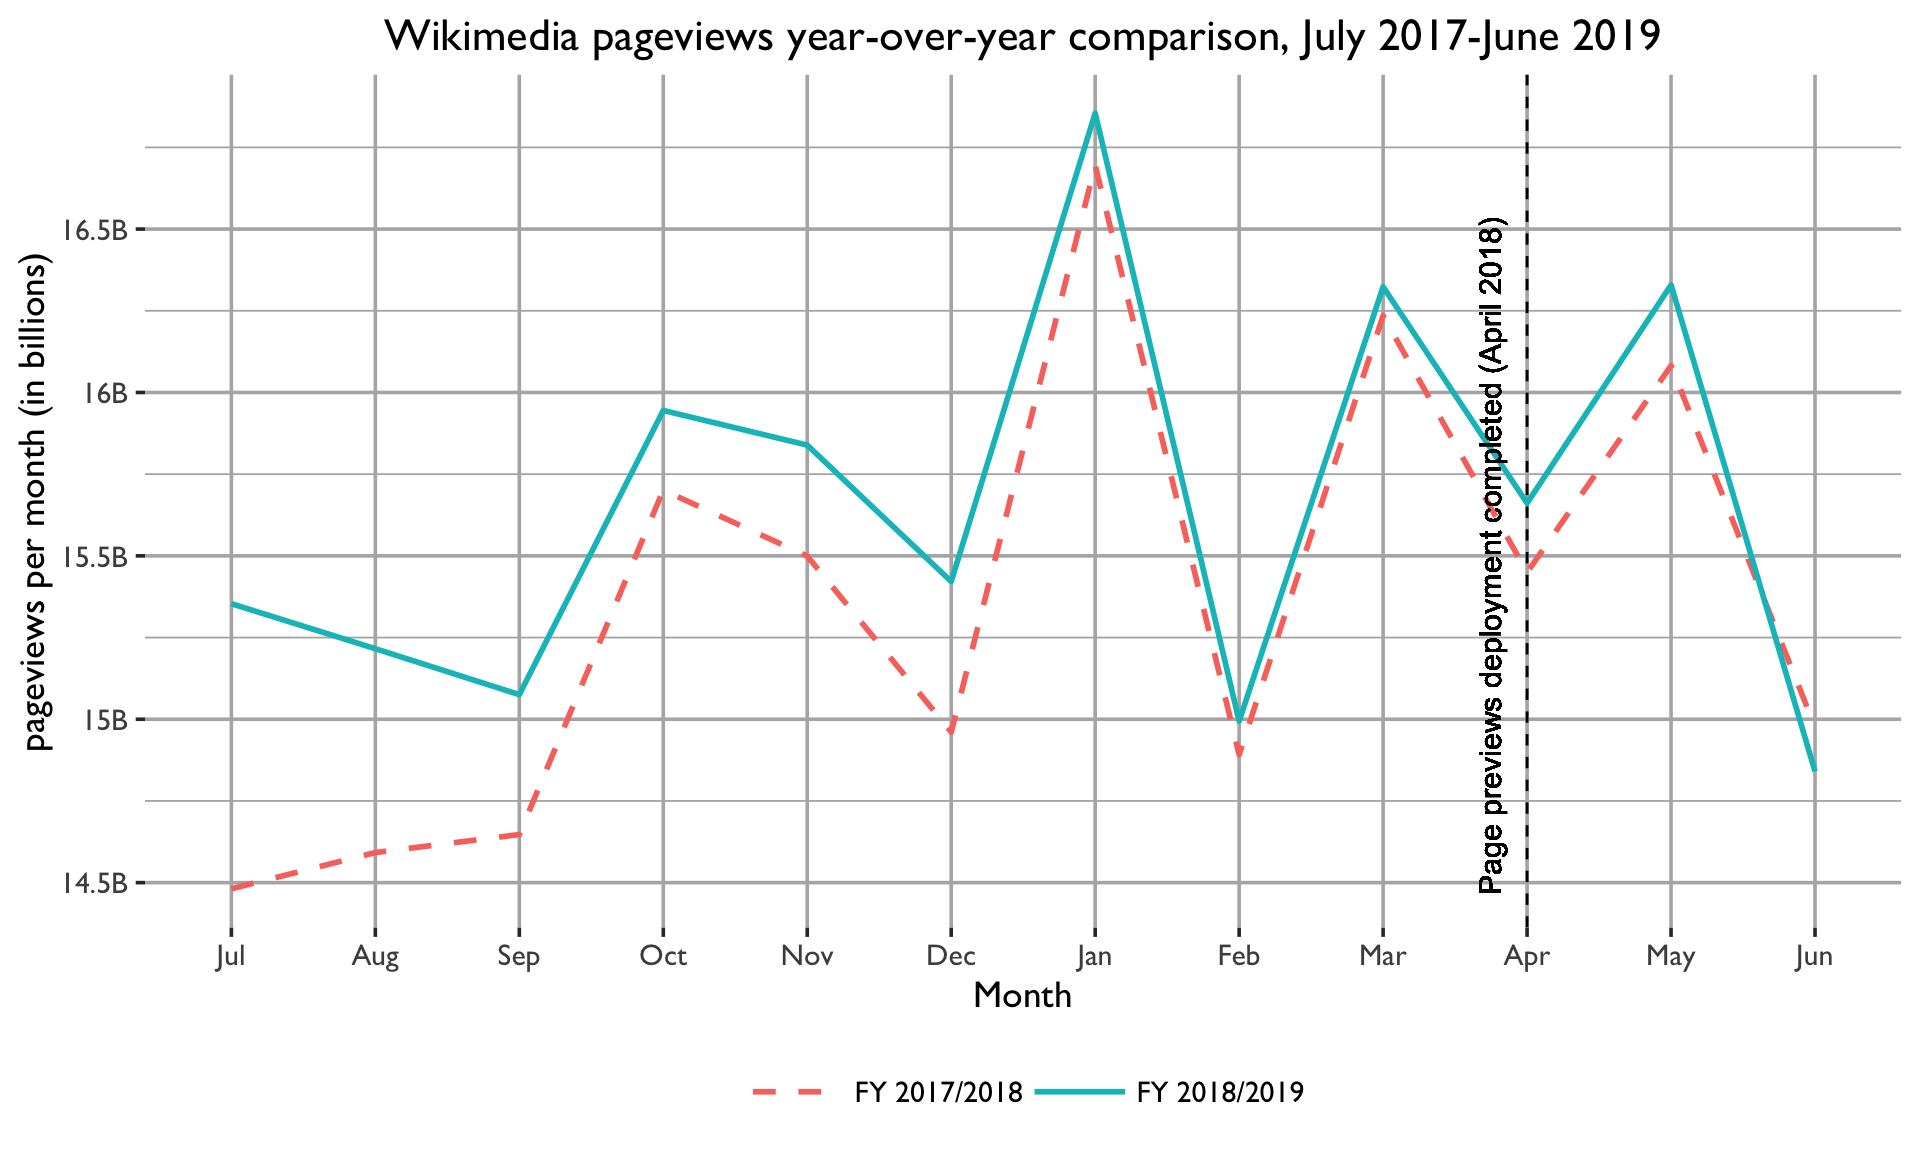
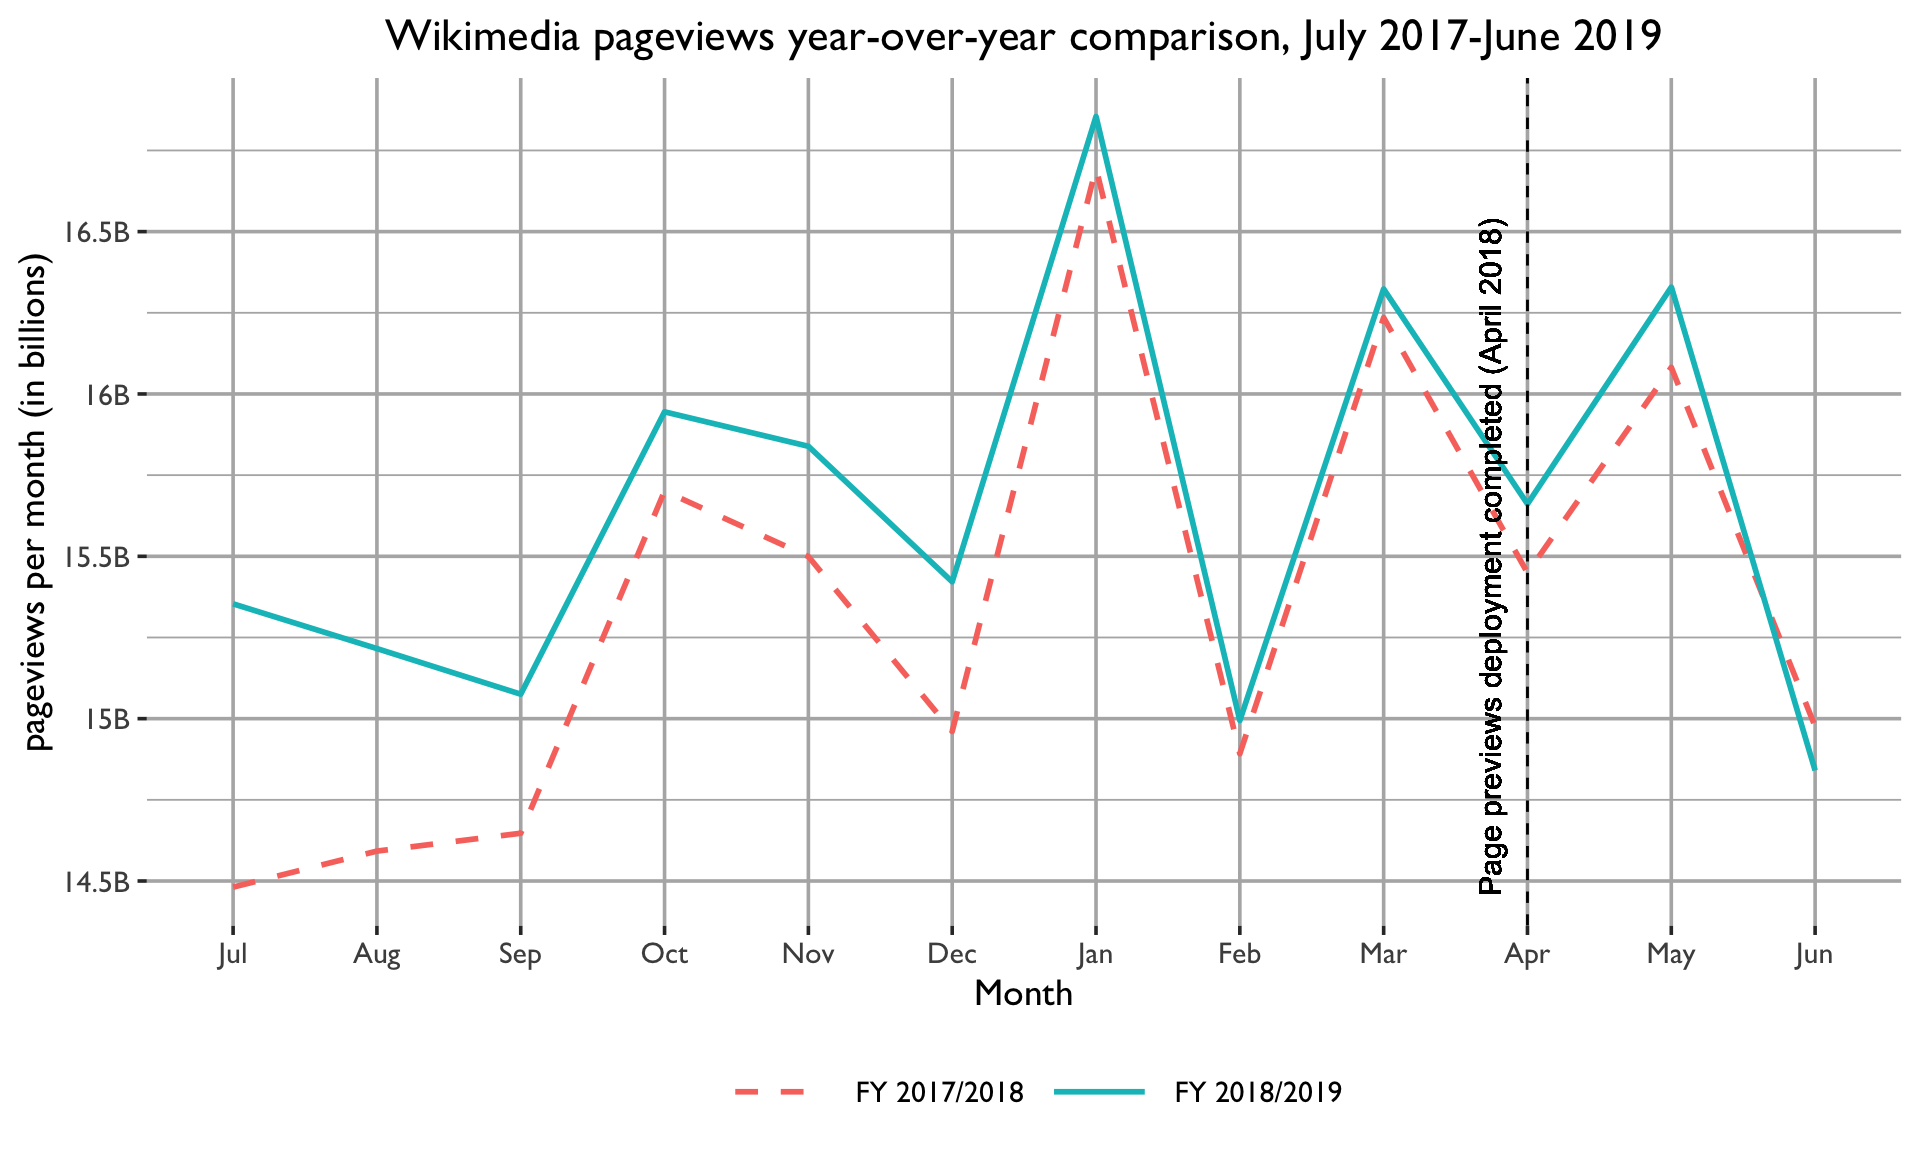
revised figuresand queries

diff --git a/01_interactions_metrics.md b/01_interactions_metrics.md
@@ -3,10 +3,16 @@ Monthly Readers Interactions
 
 TODOs
 
--   Move process to SWAP noteboook.
--   Create intermediate hive table to help automate and streamline the process.
--   Note monthly values are based on calendar month. They are no longer normalized due to 30 days.
--   Note: Various IE adjustments and corrections made for previous years. (IEPKIRAF: since May 20, 2018, IE7PKIRAF: January 1-May 19, 2018, IE7PKIRAF & iOS mainpage: ...-Dec 31, 2017)
+  - Move process to SWAP noteboook.
+  - Create intermediate hive table to help automate and streamline the
+    process.
+  - Note monthly values are based on calendar month. They are no longer
+    normalized due to 30 days.
+  - Note: Various IE adjustments and corrections made for previous
+    years. (IEPKIRAF: since May 20, 2018, IE7PKIRAF: January 1-May 19,
+    2018, IE7PKIRAF & iOS mainpage: …-Dec 31, 2017)
+
+<!-- end list -->
 
 ``` r
 library(tidyverse)
@@ -16,13 +22,21 @@ library(scales)
 library(reshape2)
 ```
 
-Monthly Pageviews
------------------
+## Monthly Pageviews
+
+Collect the total count of monthly pageviews with various corrections
+applied. List of corrections and timespans that they are applied to:
+
+  - IEPKIRAF: since May 20, 2018
+  - IE7PKIRAF: January 1-May 19, 2018
+  - IE7PKIRAF & iOS mainpage: …-Dec 31,
+2017
+
+<!-- end list -->
 
 ``` r
-# Get overall pageviews in the month (all wikis, global) with IE correction
-# applied for post May 20, 2018 dates. Other corrections applied for earlier
-# dates.
+#Get overall pageviews in the month (all wikis, global) with IE correction applied for post May 20, 2018 dates. Other corrections applied for earlier dates. 
+# Run in terminal using sparkR.
 query <- "
 SELECT year, month, day, CONCAT(year,'-',LPAD(month,2,'0'),'-',LPAD(day,2,'0')) AS date,
 SUM(IF(access_method = 'mobile app', view_count, null)) AS Apps,
@@ -37,13 +51,12 @@ AND user_agent_map['browser_family'] = 'IE') -- https://phabricator.wikimedia.or
 GROUP BY year, month, day ORDER BY year, month, day LIMIT 1000;
 "
 results <- collect(sql(query))
-# add results to pageviews.tsv file which includes corrected data for
-# pre-May 2018 dates. TODO: Add other queries with corrections for earlier
-# dates to automate this process
+#add results to pageviews.tsv file which includes corrected data for pre-May 2018 dates.
+#TODO: Add other queries with corrections for earlier dates to automate this process
 ```
 
 ``` r
-# Read in pageviews data with all corrected data (dating back to 2015-04-01)
+#Read in pageviews data with all corrected data (dating back to 2015-04-01)
 pageviews_all <- read.delim("data/pageviews.tsv", sep = "\t")
 pageviews_all$date <- as.Date(pageviews_all$date, format = "%Y-%m-%d")
 ```
@@ -51,10 +64,13 @@ pageviews_all$date <- as.Date(pageviews_all$date, format = "%Y-%m-%d")
 Find total pageviews per month with yoy changes
 
 ``` r
-pageviews_all_monthly <- pageviews_all %>% mutate(date = floor_date(date, "month")) %>% 
-    group_by(date) %>% summarise(monthly_views = sum(as.numeric(total))) %>% 
-    arrange(date) %>% mutate(yearOverYear = monthly_views/lag(monthly_views, 
-    12) - 1) %>% mutate(type = "pageviews")
+pageviews_all_monthly <- pageviews_all %>%
+  mutate(date = floor_date(date, "month")) %>%
+  group_by(date) %>%
+  summarise(monthly_views = sum(as.numeric(total))) %>%
+  arrange(date) %>%
+  mutate(yearOverYear= monthly_views/lag(monthly_views,12) -1) %>%
+  mutate(type = "pageviews")
 
 tail(pageviews_all_monthly)
 ```
@@ -72,22 +88,24 @@ tail(pageviews_all_monthly)
 Create time series chart of monthly pageviews
 
 ``` r
-p <- ggplot(pageviews_all_monthly, aes(x = date, y = monthly_views)) + geom_line(color = "blue", 
-    size = 1.5) + geom_vline(xintercept = as.numeric(as.Date("2018-04-01")), 
-    linetype = "dashed", color = "black") + geom_text(aes(x = as.Date("2018-04-01"), 
-    y = 1.6e+10, label = "Page previews deployment completed"), size = 3.5, 
-    vjust = -1.2, angle = 90, color = "black") + scale_y_continuous("pageviews per month (in billions)", 
-    labels = polloi::compress) + scale_x_date("Date", labels = date_format("%b %Y"), 
-    date_breaks = "2 months") + labs(title = "Monthly Wikimedia pageviews") + 
-    ggthemes::theme_tufte(base_size = 12, base_family = "Gill Sans") + theme(axis.text.x = element_text(angle = 45, 
-    hjust = 1), plot.title = element_text(hjust = 0.5), panel.grid = element_line("gray70"))
+p <- ggplot(pageviews_all_monthly, aes(x=date, y = monthly_views)) +  
+  geom_line(color = 'blue', size = 1.5) +
+  geom_vline(xintercept = as.numeric(as.Date("2018-04-01")),
+             linetype = "dashed", color = "black") +
+  geom_text(aes(x=as.Date('2018-04-01'), y=16E9, label="Page previews deployment completed"), size=3.5, vjust = -1.2, angle = 90, color = "black") +
+  scale_y_continuous("pageviews per month (in billions)", labels = polloi::compress) +
+  scale_x_date("Date", labels = date_format("%b %Y"), date_breaks = "2 months") +
+  labs(title = "Monthly Wikimedia pageviews") +
+  ggthemes::theme_tufte(base_size = 12, base_family = "Gill Sans") +
+  theme(axis.text.x=element_text(angle = 45, hjust = 1),
+        plot.title = element_text(hjust = 0.5),
+        panel.grid = element_line("gray70"))
 
-ggsave(filename = "Monthly pageviews monthly time series.png", plot = p, path = "figures", 
-    units = "in", dpi = 150, height = 6, width = 10, limitsize = FALSE)
+ggsave(filename="Monthly pageviews monthly time series.png", plot = p, path = "figures", units = "in", dpi = 150, height = 6, width = 10, limitsize = FALSE)  
 p
 ```
 
-![](figures/md_figs/unnamed-chunk-5-1.png)
+![](figures/md_figs/unnamed-chunk-5-1.png)<!-- -->
 
 ### Review pageviews by access method
 
@@ -164,46 +182,50 @@ ggsave(filename="Daily pageviews byaccess method.png", plot = p, path = "figures
 p
 ```
 
-![](figures/md_figs/unnamed-chunk-8-1.png)
+![](figures/md_figs/unnamed-chunk-8-1.png)<!-- -->
 
-Create YOY Chart comparing the current fiscal year with the previous fical year. TODO: Adjust for FY 2019/2020 starting next month (July 2019)
+Create YOY Chart comparing the current fiscal year with the previous
+fical year. TODO: Adjust for FY 2019/2020 starting next month (July
+2019)
 
 ``` r
-# Various adjustments to allow for fiscal year comparison.
-pageviews_all_monthly_fy <- pageviews_all_monthly %>% filter(date >= "2017-07-01") %>% 
-    mutate(fiscal_year = ifelse(date >= "2017-07-01" & date < "2018-07-01", 
-        "FY 2017/2018", "FY 2018/2019"), MonthN = as.factor(format(as.Date(date), 
-        "%m")), Month = months(as.Date(date), abbreviate = TRUE))
+#Various adjustments to allow for fiscal year comparison.
+pageviews_all_monthly_fy <- pageviews_all_monthly %>%
+  filter(date >= '2017-07-01') %>%
+  mutate(fiscal_year = ifelse(date >= '2017-07-01' & date < '2018-07-01', 'FY 2017/2018', 'FY 2018/2019'),
+         MonthN =as.factor(format(as.Date(date),"%m")),
+         Month = months(as.Date(date), abbreviate=TRUE))
 
-pageviews_all_monthly_fy$MonthN = factor(pageviews_all_monthly_fy$MonthN, levels = c("07", 
-    "08", "09", "10", "11", "12", "01", "02", "03", "04", "05", "06"))
+pageviews_all_monthly_fy$MonthN = factor(pageviews_all_monthly_fy$MonthN, levels=c("07","08", "09", "10", "11", "12", "01", "02", "03", "04", "05", "06"))
+  
 
+p <- ggplot(pageviews_all_monthly_fy, aes(x=MonthN, y = monthly_views, group = fiscal_year, color = fiscal_year, linetype = fiscal_year)) +  
+  geom_line(size = 1) +
+  geom_vline(xintercept = 10,
+             linetype = "dashed", color = "black") +
+  geom_text(aes(x=10, y=15.5E9, label="Page previews deployment completed (April 2018)"), size=4, vjust = -1.2, angle = 90, color = "black") +
+  scale_y_continuous("pageviews per month (in billions)", labels = polloi::compress) +
+  scale_x_discrete(breaks = pageviews_all_monthly_fy$MonthN, labels = pageviews_all_monthly_fy$Month )+
+  labs(title = "Wikimedia pageviews year-over-year comparison, July 2017-June 2019") +
+  ggthemes::theme_tufte(base_size = 14, base_family = "Gill Sans") +
+  theme(plot.title = element_text(hjust = 0.5),
+        legend.title = element_blank(),
+        legend.position = "bottom",
+        panel.grid = element_line("gray70"),
+        legend.key.width=unit(1.5,"cm")) +
+  xlab("Month") +
+  scale_linetype_manual(breaks=c('FY 2017/2018','FY 2018/2019'), values=c(2,1))
 
-p <- ggplot(pageviews_all_monthly_fy, aes(x = MonthN, y = monthly_views, group = fiscal_year, 
-    color = fiscal_year, linetype = fiscal_year)) + geom_line(size = 1) + geom_vline(xintercept = 10, 
-    linetype = "dashed", color = "black") + geom_text(aes(x = 10, y = 1.55e+10, 
-    label = "Page previews deployment completed (April 2018)"), size = 4, vjust = -1.2, 
-    angle = 90, color = "black") + scale_y_continuous("pageviews per month (in billions)", 
-    labels = polloi::compress) + scale_x_discrete(breaks = pageviews_all_monthly_fy$MonthN, 
-    labels = pageviews_all_monthly_fy$Month) + labs(title = "Wikimedia pageviews year-over-year comparison, July 2017-June 2019") + 
-    ggthemes::theme_tufte(base_size = 14, base_family = "Gill Sans") + theme(plot.title = element_text(hjust = 0.5), 
-    legend.title = element_blank(), legend.position = "bottom", panel.grid = element_line("gray70"), 
-    legend.key.width = unit(1.5, "cm")) + xlab("Month") + scale_linetype_manual(breaks = c("FY 2017/2018", 
-    "FY 2018/2019"), values = c(2, 1))
-
-ggsave(filename = "Pageviews_monthly_yoy.png", plot = p, path = "figures", units = "in", 
-    dpi = 192, height = 6, width = 10, limitsize = FALSE)
+ggsave(filename="Pageviews_monthly_yoy.png", plot = p, path = 'figures', units = "in", dpi = 192, height = 6, width = 10, limitsize = FALSE)  
 p
 ```
 
-![](figures/md_figs/unnamed-chunk-9-1.png)
+![](figures/md_figs/unnamed-chunk-9-1.png)<!-- -->
 
-Monthly Previews on Desktop Wikipedia
--------------------------------------
+## Monthly Previews on Desktop Wikipedia
 
 ``` r
-# Get daily page previews seen on desktop Wikipedia since deployment in
-# April 2018
+#Get daily page previews seen on desktop Wikipedia since deployment in April 2018
 query <- "
 SELECT year, month, day, CONCAT(year,'-',LPAD(month,2,'0'),'-',LPAD(day,2,'0')) AS date,
   SUM(view_count) AS previews_seen
@@ -213,17 +235,21 @@ SELECT year, month, day, CONCAT(year,'-',LPAD(month,2,'0'),'-',LPAD(day,2,'0')) 
   ORDER BY year, month, day LIMIT 10000;
 "
 results <- collect(sql(query))
-save(results, file = "Data/page_previews.tsv")
+save(results, file="Data/page_previews.tsv")
 ```
 
 ``` r
 previews <- read.delim("data/page_previews.tsv", sep = "\t")
 previews$date <- as.Date(previews$date, format = "%Y-%m-%d")
 
-previews_all_monthly <- previews %>% select(-c(1, 2, 3)) %>% mutate(date = floor_date(date, 
-    "month")) %>% group_by(date) %>% summarise(monthly_views = sum(as.numeric(previews_seen))) %>% 
-    arrange(date) %>% mutate(yearOverYear = monthly_views/lag(monthly_views, 
-    12) - 1) %>% mutate(type = "previews")
+previews_all_monthly <- previews %>%
+  select(-c(1,2,3)) %>%
+  mutate(date = floor_date(date, "month"))  %>%
+  group_by(date) %>%
+  summarise(monthly_views = sum(as.numeric(previews_seen))) %>%
+  arrange(date) %>%
+  mutate(yearOverYear= monthly_views/lag(monthly_views,12) -1) %>%
+  mutate(type = "previews")
 
 tail(previews_all_monthly)
 ```
@@ -241,58 +267,66 @@ tail(previews_all_monthly)
 Chart daily page previews times series
 
 ``` r
-previews_all_daily <- previews %>% filter(date >= "2018-04-17")  #Filter out dates that occured before page previews rollout was completed.
+previews_all_daily <- previews %>% 
+  filter(date >= '2018-04-17')  #Filter out dates that occured before page previews rollout was completed.
 
-p <- ggplot(previews_all_daily, aes(x = date, y = previews_seen)) + geom_line(color = "red", 
-    size = 1) + geom_vline(xintercept = as.numeric(as.Date("2018-04-17")), linetype = "dashed", 
-    color = "black") + geom_vline(xintercept = as.numeric(as.Date("2018-12-25")), 
-    linetype = "dashed", color = "black") + geom_text(aes(x = as.Date("2018-12-25"), 
-    y = 5e+07, label = "Christmas"), size = 4, vjust = -1.2, angle = 90, color = "black") + 
-    geom_text(aes(x = as.Date("2018-04-17"), y = 5.5e+07, label = "Page previews deployment completed"), 
-        size = 4, vjust = -1.2, angle = 90, color = "black") + scale_y_continuous("seen previews (shown for at least 1 sec)", 
-    labels = polloi::compress) + scale_x_date("Date", labels = date_format("%b %Y"), 
-    date_breaks = "1 month") + labs(title = "Daily seen previews on Wikipedia Desktop") + 
-    ggthemes::theme_tufte(base_size = 12, base_family = "Gill Sans") + theme(axis.text.x = element_text(angle = 45, 
-    hjust = 1), plot.title = element_text(hjust = 0.5), panel.grid = element_line("gray70"))
+p <- ggplot(previews_all_daily, aes(x=date, y = previews_seen)) +  
+  geom_line(color = 'red', size = 1) +
+  geom_vline(xintercept = as.numeric(as.Date("2018-04-17")),
+             linetype = "dashed", color = "black")+
+  geom_vline(xintercept = as.numeric(as.Date("2018-12-25")),
+             linetype = "dashed", color = "black")+
+  geom_text(aes(x=as.Date('2018-12-25'), y=50E6, label="Christmas"), size=4, vjust = -1.2, angle = 90, color = "black") +
+  geom_text(aes(x=as.Date('2018-04-17'), y=55E6, label="Page previews deployment completed"), size=4, vjust = -1.2, angle = 90, color = "black") +
+  scale_y_continuous("seen previews (shown for at least 1 sec)", labels = polloi::compress) +
+  scale_x_date("Date", labels = date_format("%b %Y"), date_breaks = "1 month") +
+  labs(title = "Daily seen previews on Wikipedia Desktop") +
+  ggthemes::theme_tufte(base_size = 12, base_family = "Gill Sans") +
+  theme(axis.text.x=element_text(angle = 45, hjust = 1),
+        plot.title = element_text(hjust = 0.5),
+        panel.grid = element_line("gray70"))
 
-ggsave(filename = "Daily page previews seen.png", plot = p, path = "figures", 
-    units = "in", dpi = 192, height = 6, width = 10, limitsize = FALSE)
+ggsave(filename="Daily page previews seen.png", plot = p, path = "figures", units = "in", dpi = 192, height = 6, width = 10, limitsize = FALSE)  
 p
 ```
 
-![](figures/md_figs/unnamed-chunk-12-1.png)
+![](figures/md_figs/unnamed-chunk-12-1.png)<!-- -->
 
-Monthly Interactions (Pageviews + Seen Previews)
-================================================
+# Monthly Interactions (Pageviews + Seen Previews)
 
 Combine pageviews and previews data into table
 
 ``` r
-interactions <- rbind(pageviews_all_monthly, previews_all_monthly)
+interactions <- rbind(pageviews_all_monthly, previews_all_monthly) 
 ```
 
-Create stacked bar charts of page interactions
+Create stacked bar charts of page
+interactions
 
 ``` r
-p <- ggplot(interactions, aes(x = date, y = monthly_views, fill = forcats::fct_rev(type))) + 
-    geom_col() + scale_y_continuous("seen previews (shown for at least 1 sec)\nand pageviews (in billions)", 
-    labels = polloi::compress) + scale_x_date("Date", labels = date_format("%Y-%m"), 
-    date_breaks = "3 months") + geom_vline(xintercept = as.numeric(as.Date("2018-04-01")), 
-    linetype = "dashed", color = "blue") + geom_text(aes(x = as.Date("2018-04-01"), 
-    y = 8e+09, label = "Page Previews Deployment Completed"), size = 4, vjust = -1.2, 
-    angle = 90, color = "black") + labs(title = "Pageviews and seen previews per calendar month") + 
-    ggthemes::theme_tufte(base_size = 14, base_family = "Gill Sans") + theme(axis.text.x = element_text(angle = 45, 
-    hjust = 1), panel.grid = element_line("gray70"), legend.position = "bottom", 
-    legend.title = element_blank(), legend.text = element_text(size = 14))
+p <- ggplot(interactions, aes(x=date, y = monthly_views, fill = forcats::fct_rev(type))) +  
+  geom_col() +
+  scale_y_continuous("seen previews (shown for at least 1 sec)\nand pageviews (in billions)",labels = polloi::compress) +
+  scale_x_date("Date", labels = date_format("%Y-%m"), date_breaks = "3 months") +
+  geom_vline(xintercept = as.numeric(as.Date("2018-04-01")),
+             linetype = "dashed", color = "blue") +
+  geom_text(aes(x=as.Date('2018-04-01'), y=8E9, label="Page Previews Deployment Completed"), size=4, vjust = -1.2, angle = 90, color = "black") +
+  labs(title = "Pageviews and seen previews per calendar month") +
+  ggthemes::theme_tufte(base_size = 14, base_family = "Gill Sans") +
+  theme(axis.text.x=element_text(angle = 45, hjust = 1),
+        panel.grid = element_line("gray70"),
+        legend.position="bottom",
+        legend.title=element_blank(),
+        legend.text=element_text(size=14))
 
-ggsave(filename = "Pageviews and interactions_StackedBar.png", plot = p, path = "figures", 
-    units = "in", dpi = 192, height = 6, width = 10, limitsize = FALSE)
+ggsave(filename="Pageviews and interactions_StackedBar.png", plot = p, path = 'figures', units = "in", dpi = 192, height = 6, width = 10, limitsize = FALSE)  
 p
 ```
 
-![](figures/md_figs/unnamed-chunk-14-1.png)
+![](figures/md_figs/unnamed-chunk-14-1.png)<!-- -->
 
-Calculate total monthly interactions (sum of pageviews and previews) on desktop
+Calculate total monthly interactions (sum of pageviews and previews) on
+desktop
 
 ``` r
 interactions_total <- interactions %>%
@@ -305,20 +339,20 @@ interactions_total <- interactions %>%
 knitr::kable(interactions_total)
 ```
 
-| date       |  interactions|  yearOverYear|
-|:-----------|-------------:|-------------:|
-| 2018-04-01 |   16736272662|            NA|
-| 2018-05-01 |   18047017946|            NA|
-| 2018-06-01 |   16751441350|            NA|
-| 2018-07-01 |   17019003787|            NA|
-| 2018-08-01 |   16867847479|            NA|
-| 2018-09-01 |   16713641739|            NA|
-| 2018-10-01 |   17755511665|            NA|
-| 2018-11-01 |   17657210758|            NA|
-| 2018-12-01 |   17102978197|            NA|
-| 2019-01-01 |   18813460266|            NA|
-| 2019-02-01 |   16733002993|            NA|
-| 2019-03-01 |   18190360901|            NA|
-| 2019-04-01 |   17420271488|     0.0408692|
-| 2019-05-01 |   18179307830|     0.0073303|
-| 2019-06-01 |   16449779883|    -0.0180081|
+| date       | interactions | yearOverYear |
+| :--------- | -----------: | -----------: |
+| 2018-04-01 |  16736272662 |           NA |
+| 2018-05-01 |  18047017946 |           NA |
+| 2018-06-01 |  16751441350 |           NA |
+| 2018-07-01 |  17019003787 |           NA |
+| 2018-08-01 |  16867847479 |           NA |
+| 2018-09-01 |  16713641739 |           NA |
+| 2018-10-01 |  17755511665 |           NA |
+| 2018-11-01 |  17657210758 |           NA |
+| 2018-12-01 |  17102978197 |           NA |
+| 2019-01-01 |  18813460266 |           NA |
+| 2019-02-01 |  16733002993 |           NA |
+| 2019-03-01 |  18190360901 |           NA |
+| 2019-04-01 |  17420271488 |    0.0408692 |
+| 2019-05-01 |  18179307830 |    0.0073303 |
+| 2019-06-01 |  16449779883 |  \-0.0180081 |
